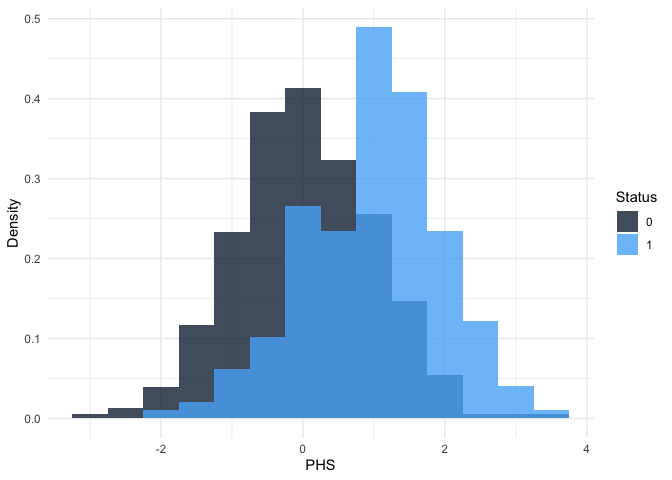
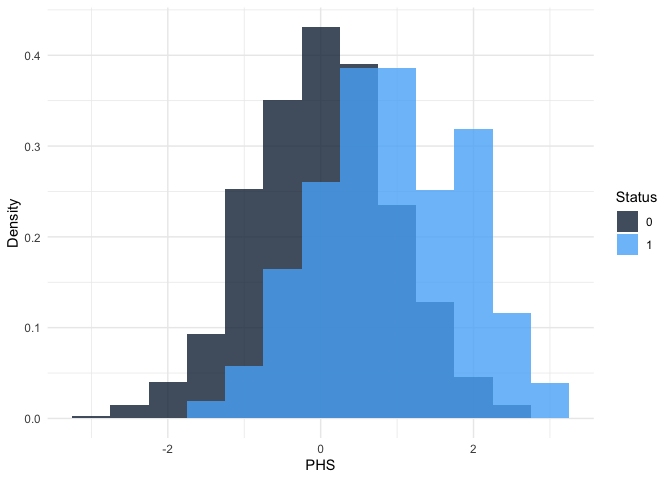
update docs

diff --git a/README.md b/README.md
@@ -19,6 +19,7 @@ First, generate some test data.
 
 ``` r
 library(hazRd)
+set.seed(49942138)
 
 n = 1000
 status = rbinom(n, 1, 0.2)
